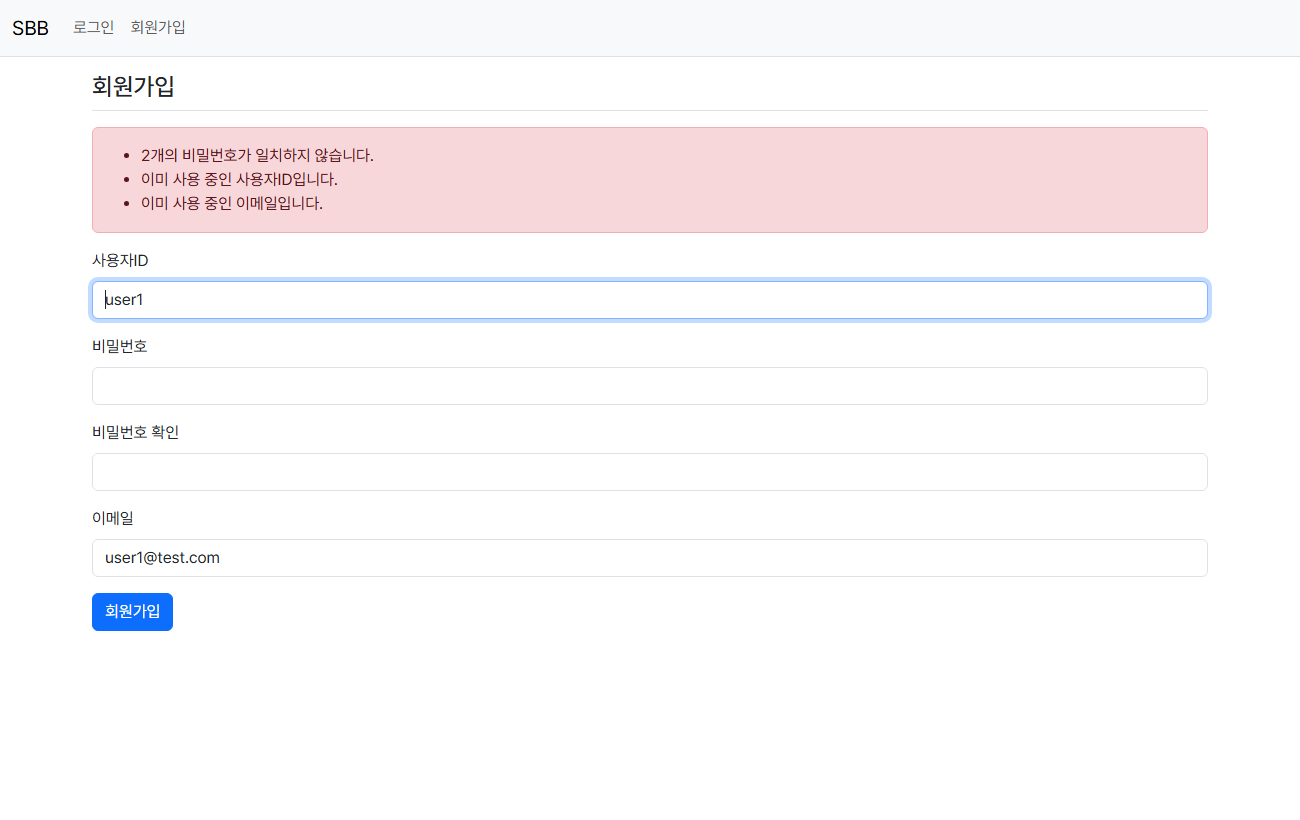
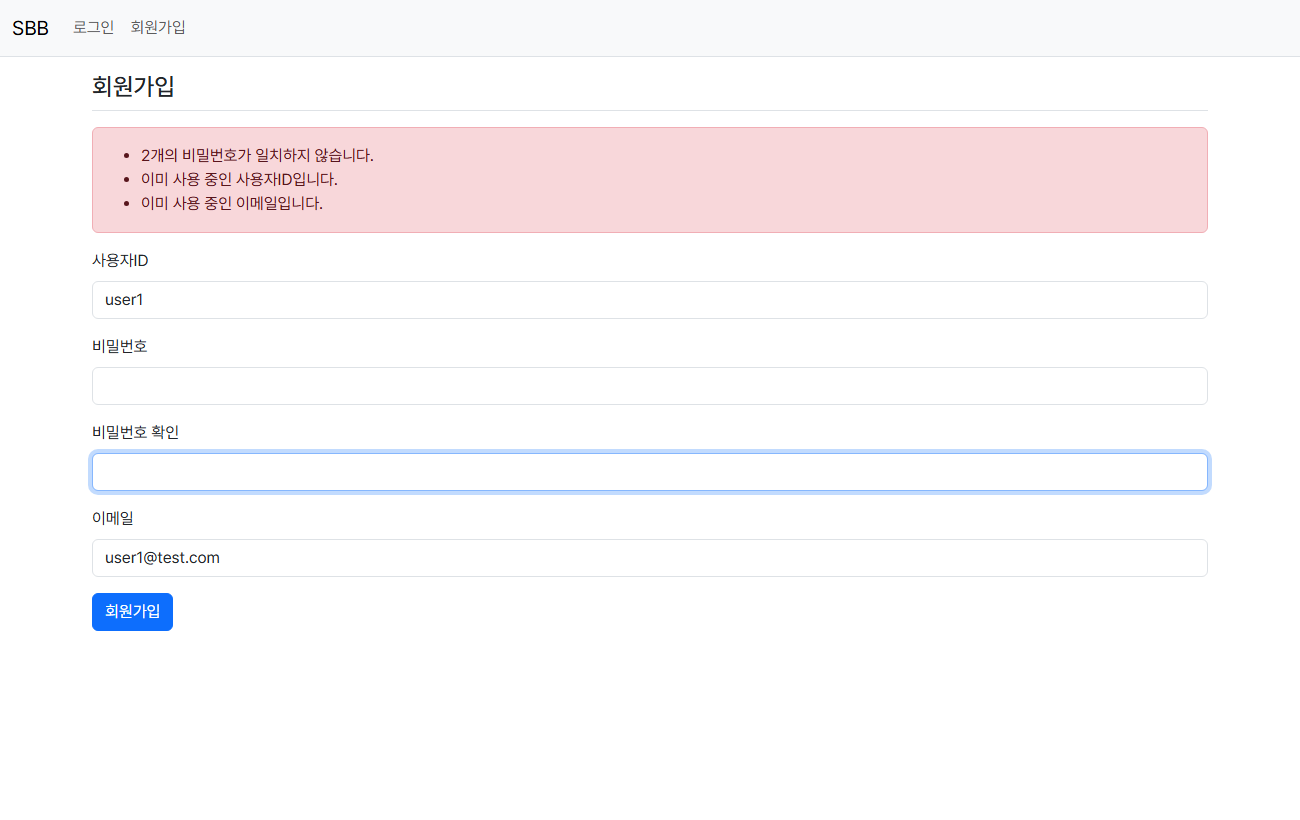
[048] feat(video): 폼과 사용성 장 (음성 58초, record 폼·오류 정렬·첫 오류 포커스·중복 항목별·페이지 1부터·검색어 URL)
작업 내용:
- 폼 장 내레이션 생성 (9문장, 58초) + 결과 화면 여유 8초
- 07-form.html: 교재 폼 클래스 vs record -> 오류 정렬과 첫 오류 포커스(실제 화면) -> 중복 항목별 안내 -> 페이지 1부터 -> 검색어 URL(실제 화면)
- 개발 서버에서 실제 가입 실패 요청과 검색 결과를 캡처 ([047] 수정 후 다시 캡처)

작업 이유:
- 첫 오류 포커스를 촬영 전에 검증하다 버그를 발견해 [047]에서 고친 뒤 실제 동작 화면 사용
- [047]에 섞여 들어간 수정 전 스크린샷을 수정 후 화면으로 교체

검증:
- hyperframes check 통과
- 스냅샷으로 강조 테두리, 코드 박스, 제목 교체 확인

Refs: [039] 07-form.txt / README [019], [022], [027], [036], [047] / pahkey/sbb3

Changed region(s): [[0.0615, 0.5488, 0.9538, 0.6098], [0.0615, 0.3354, 0.9538, 0.3963]]

diff --git a/video/compositions/07-form.html b/video/compositions/07-form.html
@@ -1,22 +1,161 @@
 <!doctype html>
 <html lang="ko">
   <body>
-    <!-- 06 · 폼과 사용성: 장면은 이 div 안에 작성. id 는 다른 장과 겹치지 않게 ch07- 로 시작 -->
+    <!-- 06 폼과 사용성: 제목 → record 폼 → 오류 정렬·첫 오류 포커스 → 중복 항목별 안내 → 페이지 1부터 → 검색어 URL 유지 -->
     <div id="ch07" class="chapter" data-composition-id="ch07" data-width="1920" data-height="1080">
-      <div class="stage center">
-        <div id="ch07-kicker" class="kicker">06 · 폼과 사용성</div>
-        <div id="ch07-hero" class="hero">사용자가 바로 고칠 수 있게</div>
+      <style>
+        #ch07 .layer { position: absolute; inset: 0; padding: 70px 120px 190px; display: flex; flex-direction: column; justify-content: center; opacity: 0; }
+        #ch07 .layer.first { opacity: 1; }
+        #ch07 .title { font-size: 56px; margin-bottom: 24px; }
+        #ch07 .two { display: grid; grid-template-columns: minmax(0, 1fr) minmax(0, 1fr); gap: 26px; }
+        #ch07 .split { display: grid; grid-template-columns: minmax(0, 1fr) 780px; gap: 34px; align-items: center; }
+        #ch07 .label { font-size: 28px; color: var(--muted); margin: 0 0 8px 4px; font-weight: 700; }
+        #ch07 .codebox { font-size: 28px; padding: 20px 26px; }
+        #ch07 .stack { display: flex; flex-direction: column; gap: 18px; }
+        #ch07 .window { width: 780px; background: #fff; border-radius: 14px; overflow: hidden; border: 1px solid #475569;
+          box-shadow: 0 24px 70px rgba(0, 0, 0, 0.5); position: relative; }
+        #ch07 .window .bar { height: 44px; background: #e2e8f0; display: flex; align-items: center; gap: 10px; padding: 0 16px; }
+        #ch07 .window .dot { width: 13px; height: 13px; border-radius: 50%; background: #94a3b8; }
+        #ch07 .window .url { margin-left: 12px; font-family: var(--font-code); font-size: 22px; color: #334155; }
+        #ch07 .window img { display: block; width: 100%; }
+        #ch07 .ring { position: absolute; border: 5px solid var(--spring); border-radius: 12px; opacity: 0; }
+        #ch07 .sub-pane { position: relative; }
+        #ch07 .swap { position: absolute; inset: 0; opacity: 0; }
+        #ch07 .swap.first { position: relative; opacity: 1; }
+      </style>
+
+      <!-- 0) 제목 -->
+      <div id="ch07-l0" class="layer first center" data-hold>
+        <div class="kicker">06 · 폼과 사용성</div>
+        <div class="hero">사용자가<br /><em>바로 고칠 수 있게</em></div>
       </div>
+
+      <!-- 1) 폼 객체: 교재 클래스 vs record -->
+      <div id="ch07-l1" class="layer" data-hold>
+        <div class="title">폼 객체는 record로</div>
+        <div class="two">
+          <div><div class="label">UserCreateForm.java (교재)</div><div class="codebox"><span class="bad">@Getter @Setter</span>
+public class UserCreateForm {
+  @Size(min = 3, max = 25)
+  @NotEmpty(message = "사용자ID는 필수항목입니다.")
+  private String username;
+  …</div></div>
+          <div><div class="label">UserController.SignupForm (개선)</div><div class="codebox">public <span class="hl">record</span> SignupForm(
+  @NotBlank(message = "<span class="hl">01-username-</span>사용자ID는 …")
+  @Size(min = 3, max = 25, …)
+  String username,
+  String password1,
+  String password2,
+  String email
+) {}</div></div>
+        </div>
+      </div>
+
+      <!-- 2) 오류 정렬 + 첫 오류 포커스 / 3) 중복 항목별 (같은 실제 화면, 강조만 바뀜) -->
+      <div id="ch07-l2" class="layer" data-hold>
+        <div class="sub-pane"><div class="title swap first" id="ch07-t-a">오류는 번호순, 커서는 첫 오류 칸으로</div><div class="title swap" id="ch07-t-b">중복은 항목별로</div></div>
+        <div class="split">
+          <div class="sub-pane">
+            <div id="ch07-2a" class="swap first stack">
+              <div><div class="label">메시지 규칙: 번호-필드명-내용</div><div class="codebox"><span class="hl">05-password2-</span>2개의 비밀번호가 일치하지 않습니다.
+<span class="hl">08-username-</span>이미 사용 중인 사용자ID입니다.
+<span class="hl">09-email-</span>이미 사용 중인 이메일입니다.</div></div>
+              <div><div class="label">form_errors.html</div><div class="codebox">#fields.allErrors().stream().<span class="hl">sorted()</span>
+…
+document.addEventListener(<span class="s">'DOMContentLoaded'</span>, …
+  form.elements[fieldName].<span class="hl">focus()</span>)</div></div>
+            </div>
+            <div id="ch07-2b" class="swap stack">
+              <div><div class="label">UserController (교재)</div><div class="codebox">catch (DataIntegrityViolationException e) {
+  bindingResult.<span class="bad">reject</span>("signupFailed",
+    <span class="bad">"이미 등록된 사용자입니다."</span>);</div></div>
+              <div><div class="label">UserController (개선)</div><div class="codebox">if (userService.existsByUsername(…))
+  bindingResult.<span class="hl">rejectValue("username"</span>, …);
+if (userService.existsByEmail(…))
+  bindingResult.<span class="hl">rejectValue("email"</span>, …);</div></div>
+            </div>
+          </div>
+          <div class="window">
+            <div class="bar"><span class="dot"></span><span class="dot"></span><span class="dot"></span><span class="url" data-layout-ignore>localhost/users/signup</span></div>
+            <img src="assets/screens/form-signup-errors.png" alt="회원가입 오류 화면" />
+            <div id="ch07-ring-focus" class="ring" style="left: 50px; top: 309px; width: 680px; height: 36px"></div>
+            <div id="ch07-ring-errs" class="ring" style="left: 50px; top: 116px; width: 680px; height: 72px"></div>
+          </div>
+        </div>
+      </div>
+
+      <!-- 4) 페이지 번호 1부터 -->
+      <div id="ch07-l4" class="layer" data-hold>
+        <div class="title">페이지 번호는 1부터</div>
+        <div class="two">
+          <div><div class="label">question_list.html (교재)</div><div class="codebox">${#numbers.sequence(<span class="bad">0</span>, paging.totalPages-1)}
+&lt;a th:text="${page}"&gt;   <span class="c">// 화면에 0 이 보임</span></div></div>
+          <div><div class="label">QuestionController (개선)</div><div class="codebox">@RequestParam(defaultValue = <span class="hl">"1"</span>) int page
+int pageIndex = <span class="hl">Math.max(page, 1) - 1</span>;
+<span class="c">// 화면·URL 은 1부터, 내부는 0부터</span></div></div>
+        </div>
+      </div>
+
+      <!-- 5) 검색어는 URL 에 -->
+      <div id="ch07-l5" class="layer" data-hold>
+        <div class="title">검색어는 URL에</div>
+        <div class="split">
+          <div class="stack">
+            <div><div class="label">question_list.html (교재)</div><div class="codebox">&lt;form <span class="bad">id="searchForm"</span>&gt;  <span class="c">// 숨은 폼</span>
+document.getElementById(<span class="bad">'searchForm'</span>)
+  .submit();</div></div>
+            <div><div class="label">list.html (개선)</div><div class="codebox">&lt;form th:action="@{/questions}" <span class="hl">method="get"</span>&gt;
+@{/questions(page=${page}, <span class="hl">kw=${kw}</span>)}</div></div>
+          </div>
+          <div class="window">
+            <div class="bar"><span class="dot"></span><span class="dot"></span><span class="dot"></span><span class="url" data-layout-ignore>localhost/questions?kw=[29</span></div>
+            <img src="assets/screens/form-search.png" alt="검색 결과" />
+          </div>
+        </div>
+      </div>
+
       <script>
         (() => {
-          // build.py 가 내레이션 길이에 맞춰 채운다: CUES[i] = i번째 문장이 시작되는 시간(장 기준 초)
-          const CUES = /*CUES*/[]/*END*/;
-          const DUR = /*DUR*/4.0/*END*/;
+          const CUES = /*CUES*/[0.0, 4.358, 12.436, 18.786, 23.504, 30.094, 37.908, 45.842, 52.408]/*END*/;
+          const DUR = /*DUR*/66.456/*END*/;
           const at = (i, offset = 0) => (CUES[i] ?? 0) + offset;
-
+          const ease = "power3.out";
           const tl = gsap.timeline({ paused: true });
-          tl.from("#ch07-kicker", { opacity: 0, y: 30, duration: 0.5, ease: "power3.out" }, at(0, 0.1));
-          tl.from("#ch07-hero", { opacity: 0, y: 40, duration: 0.6, ease: "power3.out" }, at(0, 0.3));
+          const swap = (from, to, t) => {
+            tl.to(`#ch07-l${from}`, { opacity: 0, duration: 0.35 }, t - 0.1);
+            tl.to(`#ch07-l${to}`, { opacity: 1, duration: 0.35 }, t + 0.15);
+          };
+
+          tl.from("#ch07-l0 .hero", { opacity: 0, y: 40, duration: 0.6, ease }, 0.2);
+
+          // record 폼
+          swap(0, 1, at(1));
+          tl.from("#ch07-l1 .two > *", { opacity: 0, y: 24, duration: 0.45, ease, stagger: 1.6 }, at(1, 0.4));
+
+          // 오류 정렬 → 첫 오류 포커스
+          swap(1, 2, at(2));
+          tl.from("#ch07-l2 .window", { opacity: 0, x: 30, duration: 0.5, ease }, at(2, 0.3));
+          tl.to("#ch07-ring-errs", { opacity: 1, duration: 0.3 }, at(2, 1.5));
+          tl.to("#ch07-ring-errs", { opacity: 0, duration: 0.3 }, at(3));
+          tl.to("#ch07-ring-focus", { opacity: 1, duration: 0.3, repeat: 3, yoyo: true }, at(3, 0.2));
+          tl.set("#ch07-ring-focus", { opacity: 1 }, at(3, 1.6));
+
+          // 같은 화면에서 중복 항목별 안내
+          tl.to("#ch07-ring-focus", { opacity: 0, duration: 0.3 }, at(4));
+          tl.to("#ch07-t-a", { opacity: 0, duration: 0.25 }, at(4));
+          tl.to("#ch07-t-b", { opacity: 1, duration: 0.3 }, at(4, 0.2));
+          tl.to("#ch07-2a", { opacity: 0, duration: 0.3 }, at(4));
+          tl.to("#ch07-2b", { opacity: 1, duration: 0.35 }, at(4, 0.2));
+          tl.to("#ch07-ring-errs", { opacity: 1, duration: 0.3 }, at(5, 0.5));
+
+          // 페이지 1부터
+          swap(2, 4, at(6));
+          tl.from("#ch07-l4 .two > *", { opacity: 0, y: 24, duration: 0.45, ease, stagger: 1.4 }, at(6, 0.3));
+
+          // 검색어 URL
+          swap(4, 5, at(7));
+          tl.from("#ch07-l5 .window", { opacity: 0, x: 30, duration: 0.5, ease }, at(8));
+
           window.__timelines = window.__timelines || {};
           window.__timelines["ch07"] = tl;
         })();

diff --git a/video/index.html b/video/index.html
@@ -8,7 +8,7 @@
     <link rel="stylesheet" href="assets/theme.css" />
   </head>
   <body>
-    <div id="root" data-composition-id="main" data-start="0" data-duration="522.836" data-width="1920" data-height="1080">
+    <div id="root" data-composition-id="main" data-start="0" data-duration="585.292" data-width="1920" data-height="1080">
       <!-- 장(서브 컴포지션) -->
       <div id="ch00-host" data-composition-id="ch00" data-composition-src="compositions/00-intro.html" data-start="0.0" data-duration="34.264" data-track-index="0"></div>
       <div id="ch01-host" data-composition-id="ch01" data-composition-src="compositions/01-project.html" data-start="34.264" data-duration="38.07" data-track-index="0"></div>
@@ -17,9 +17,9 @@
       <div id="ch04-host" data-composition-id="ch04" data-composition-src="compositions/04-nplus1.html" data-start="251.532" data-duration="79.006" data-track-index="0"></div>
       <div id="ch05-host" data-composition-id="ch05" data-composition-src="compositions/05-security.html" data-start="330.538" data-duration="102.314" data-track-index="0"></div>
       <div id="ch06-host" data-composition-id="ch06" data-composition-src="compositions/06-test.html" data-start="432.852" data-duration="77.984" data-track-index="0"></div>
-      <div id="ch07-host" data-composition-id="ch07" data-composition-src="compositions/07-form.html" data-start="510.836" data-duration="4.0" data-track-index="0"></div>
-      <div id="ch08-host" data-composition-id="ch08" data-composition-src="compositions/08-package.html" data-start="514.836" data-duration="4.0" data-track-index="0"></div>
-      <div id="ch09-host" data-composition-id="ch09" data-composition-src="compositions/09-outro.html" data-start="518.836" data-duration="4.0" data-track-index="0"></div>
+      <div id="ch07-host" data-composition-id="ch07" data-composition-src="compositions/07-form.html" data-start="510.836" data-duration="66.456" data-track-index="0"></div>
+      <div id="ch08-host" data-composition-id="ch08" data-composition-src="compositions/08-package.html" data-start="577.292" data-duration="4.0" data-track-index="0"></div>
+      <div id="ch09-host" data-composition-id="ch09" data-composition-src="compositions/09-outro.html" data-start="581.292" data-duration="4.0" data-track-index="0"></div>
       <!-- 내레이션 -->
       <audio id="vo-ch00" class="clip" src="audio/00-intro.mp3" data-start="0.0" data-duration="33.814" data-track-index="2" data-volume="1"></audio>
       <audio id="vo-ch01" class="clip" src="audio/01-project.mp3" data-start="34.264" data-duration="37.62" data-track-index="2" data-volume="1"></audio>
@@ -28,6 +28,7 @@
       <audio id="vo-ch04" class="clip" src="audio/04-nplus1.mp3" data-start="251.532" data-duration="71.356" data-track-index="2" data-volume="1"></audio>
       <audio id="vo-ch05" class="clip" src="audio/05-security.mp3" data-start="330.538" data-duration="94.664" data-track-index="2" data-volume="1"></audio>
       <audio id="vo-ch06" class="clip" src="audio/06-test.mp3" data-start="432.852" data-duration="70.334" data-track-index="2" data-volume="1"></audio>
+      <audio id="vo-ch07" class="clip" src="audio/07-form.mp3" data-start="510.836" data-duration="58.806" data-track-index="2" data-volume="1"></audio>
       <!-- 배경음악 -->
 
       <!-- 자막 -->
@@ -116,6 +117,15 @@
       <div id="cap-ch06-10" class="clip caption" data-start="486.512" data-duration="6.25" data-track-index="3" data-layout-ignore><span>로그인은 @WithMockUser, 비로그인은 @WithAnonymousUser로 만듭니다.</span></div>
       <div id="cap-ch06-11" class="clip caption" data-start="492.862" data-duration="5.146" data-track-index="3" data-layout-ignore><span>남의 글 수정과 삭제가 403인지도 모두 들어 있습니다.</span></div>
       <div id="cap-ch06-12" class="clip caption" data-start="498.108" data-duration="4.978" data-track-index="3" data-layout-ignore><span>gradlew test 한 번이면 쉰일곱 개가 전부 통과합니다.</span></div>
+      <div id="cap-ch07-00" class="clip caption" data-start="510.836" data-duration="4.258" data-track-index="3" data-layout-ignore><span>여섯 번째, 폼과 사용성입니다.</span></div>
+      <div id="cap-ch07-01" class="clip caption" data-start="515.194" data-duration="7.978" data-track-index="3" data-layout-ignore><span>교재의 폼은 Getter, Setter를 단 클래스입니다. 저는 record로 바꿨습니다.</span></div>
+      <div id="cap-ch07-02" class="clip caption" data-start="523.272" data-duration="6.25" data-track-index="3" data-layout-ignore><span>검증 오류는 순서가 보장되지 않아서, 메시지 앞에 번호를 붙여 정렬하고,</span></div>
+      <div id="cap-ch07-03" class="clip caption" data-start="529.622" data-duration="4.618" data-track-index="3" data-layout-ignore><span>첫 번째 오류 칸에 커서가 자동으로 가게 했습니다.</span></div>
+      <div id="cap-ch07-04" class="clip caption" data-start="534.34" data-duration="6.49" data-track-index="3" data-layout-ignore><span>교재의 회원가입은 중복이면 "이미 등록된 사용자입니다" 하나로 알려 줍니다.</span></div>
+      <div id="cap-ch07-05" class="clip caption" data-start="540.93" data-duration="7.714" data-track-index="3" data-layout-ignore><span>아이디인지 이메일인지 알 수 없죠. 그래서 겹친 항목마다 따로 알려 줍니다.</span></div>
+      <div id="cap-ch07-06" class="clip caption" data-start="548.744" data-duration="7.834" data-track-index="3" data-layout-ignore><span>교재는 page=0이 첫 페이지라 화면에도 0이 보입니다. 저는 1부터 시작합니다.</span></div>
+      <div id="cap-ch07-07" class="clip caption" data-start="556.678" data-duration="6.466" data-track-index="3" data-layout-ignore><span>검색은 숨은 폼과 자바스크립트 대신, 그냥 GET 폼으로 바꿨습니다.</span></div>
+      <div id="cap-ch07-08" class="clip caption" data-start="563.244" data-duration="6.298" data-track-index="3" data-layout-ignore><span>페이지 링크에 검색어가 붙어서, 결과 주소를 그대로 공유할 수 있습니다.</span></div>
     </div>
     <script>
       window.__timelines = window.__timelines || {};

diff --git a/README.md b/README.md
@@ -794,3 +794,16 @@
 - 결과
   - 브라우저: 회원가입 오류(비밀번호 불일치·아이디 중복·이메일 중복) 후 포커스가 `password2`(첫 오류)로, 질문 등록(내용 누락) 후 `content`로 이동, 입력한 제목은 유지 (수정 전에는 `BODY`)
   - `./gradlew test` 57건 통과
+
+### [048] feat(video): 폼과 사용성 장 (음성 58초, record 폼·오류 정렬·첫 오류 포커스·중복 항목별·페이지 1부터·검색어 URL)
+- [링크](https://github.com/codecodecode333/jump-to-spring/commit/048)
+- 출처: 대본 [039] `07-form.txt`, README [019]·[022]·[027]·[036]·[047], 교재 저장소 `UserCreateForm`·`UserController`·`question_list.html`
+- 작업
+  - 폼 장 내레이션 생성 (9문장, 58초 + 결과 화면 여유 8초)
+  - `compositions/07-form.html`: 교재 `@Getter @Setter` 폼 클래스 → record → 오류 메시지 규칙과 정렬·`DOMContentLoaded` 포커스 → 같은 실제 화면에서 첫 오류 칸(비밀번호 확인)과 오류 목록에 강조 테두리 → 교재 `reject("signupFailed", …)` vs `rejectValue("username"/"email")` → 페이지 번호(교재 `sequence(0, …)` vs `Math.max(page, 1) - 1`) → 검색(교재 숨은 `searchForm` + JS vs GET 폼과 `kw` 파라미터, 실제 검색 화면)
+  - 증거 만들기: 개발 서버에 이미 있는 아이디·이메일 + 비밀번호 불일치로 실제 가입 요청 → 응답 HTML 캡처(`form-signup-errors.png`, [047] 수정 후 다시 캡처해 비밀번호 확인 칸에 포커스), 검색 결과 화면 캡처(`form-search.png`)
+- 이유
+  - "첫 오류 칸에 커서가 간다"는 장면을 만들기 전에 실제로 확인하다가 동작하지 않는 것을 발견 → [047]에서 앱을 고친 뒤, 고친 화면으로 촬영
+  - [047] 커밋에 이 장의 스크린샷 두 장이 함께 들어갔음 (`git add -A`). 그중 회원가입 화면은 수정 전 상태(사용자ID 칸 포커스)라 이번 커밋에서 수정 후 화면으로 교체
+- 결과
+  - `hyperframes check` 통과, 스냅샷으로 강조 테두리 위치·코드 박스 넘침·제목 교체를 확인하고 수정
